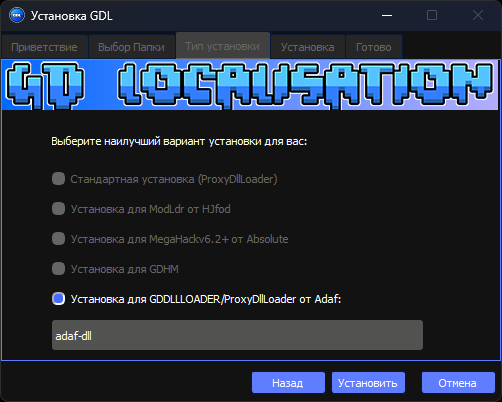
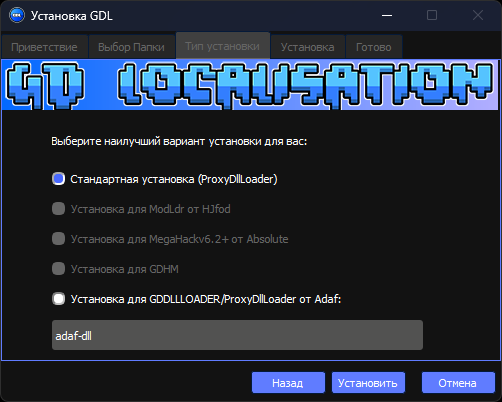
upd screen

Changed region(s): [[0.0896, 0.4179, 0.5677, 0.4776], [0.0896, 0.7164, 0.1494, 0.7761]]

diff --git a/profile/README.md b/profile/README.md
@@ -36,7 +36,7 @@ Geometry Dash Localisation - модификация, которая нацеле
 1. Скачайте .exe файл из [последнего релиза](https://github.com/gdlocalisation/gdl-installer/releases).
 2. Откройте файл .exe (нужно немного подождать, он берёт информацию с сервера) и начните установку. <br />![Screenshot1](screenshots/1.png)
 3. Нажмите далее и выберите путь (если не выбрался автоматически), где установлена Geometry Dash (Допустим E:/Games/gd). <br />![Screenshot2](screenshots/2.png)
-4. Выберите, какой способ установки DLL вам нужен (Мне допустим нужен способ установки для adaf-dll). <br />![Screenshot3](screenshots/3.png)
+4. Выберите, какой способ установки DLL вам нужен (Мне допустим нужен этот способ установки, так как у меня нет никаких модов). <br />![Screenshot3](screenshots/3.png)
 5. Нажмите установить и ждите установки. <br />![Screenshot4](screenshots/4.png)
 6. Если все установилось успешно, то поздравляю, теперь у вас гд на русском языке. <br />![Screenshot5](screenshots/5.png)
 
